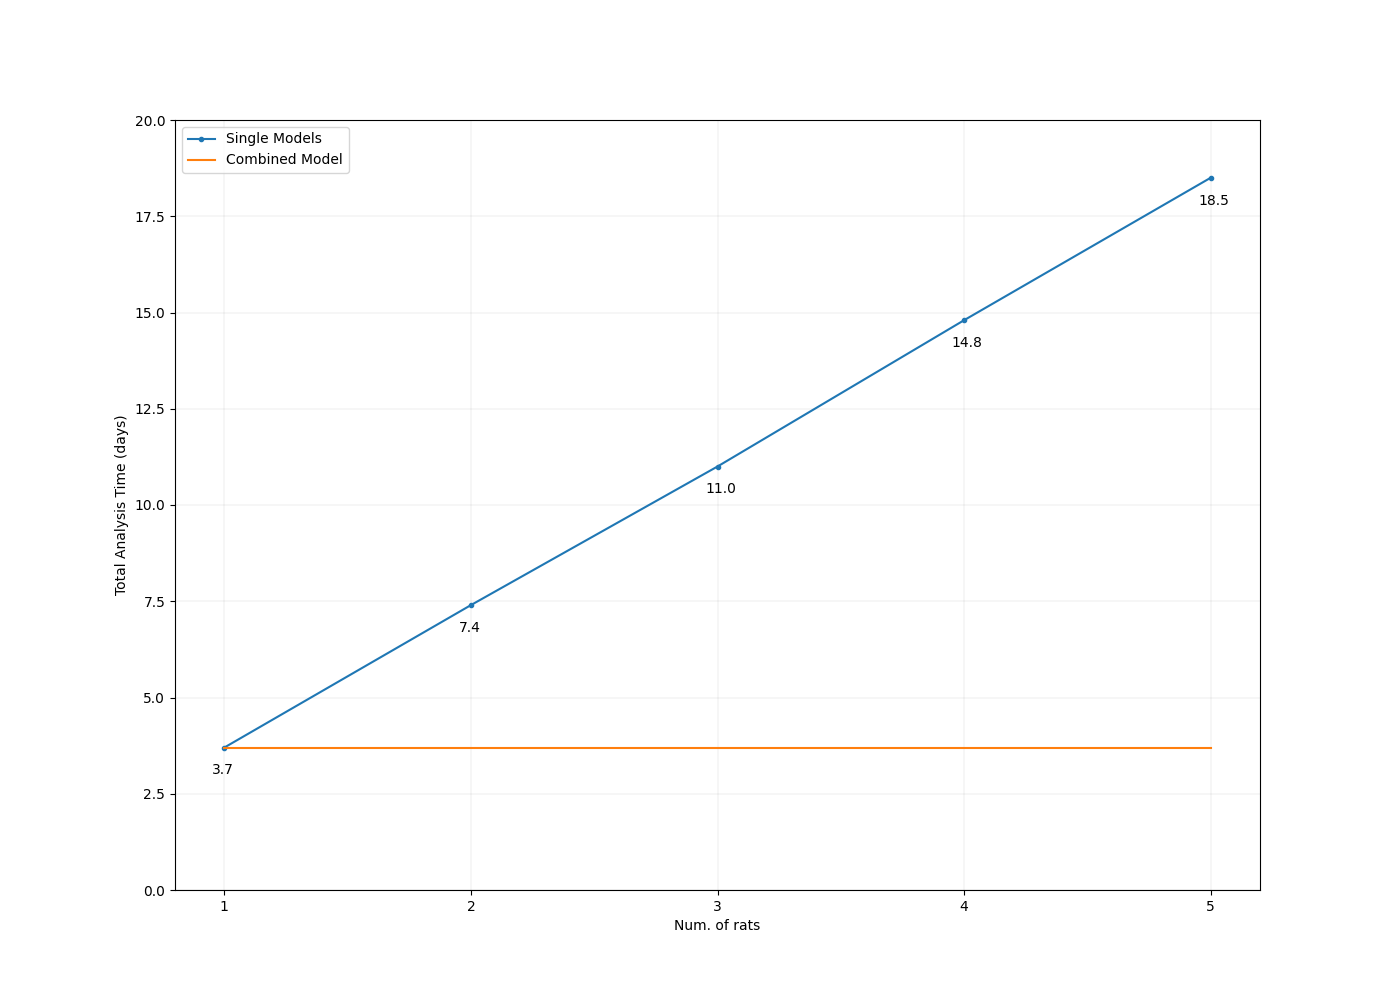
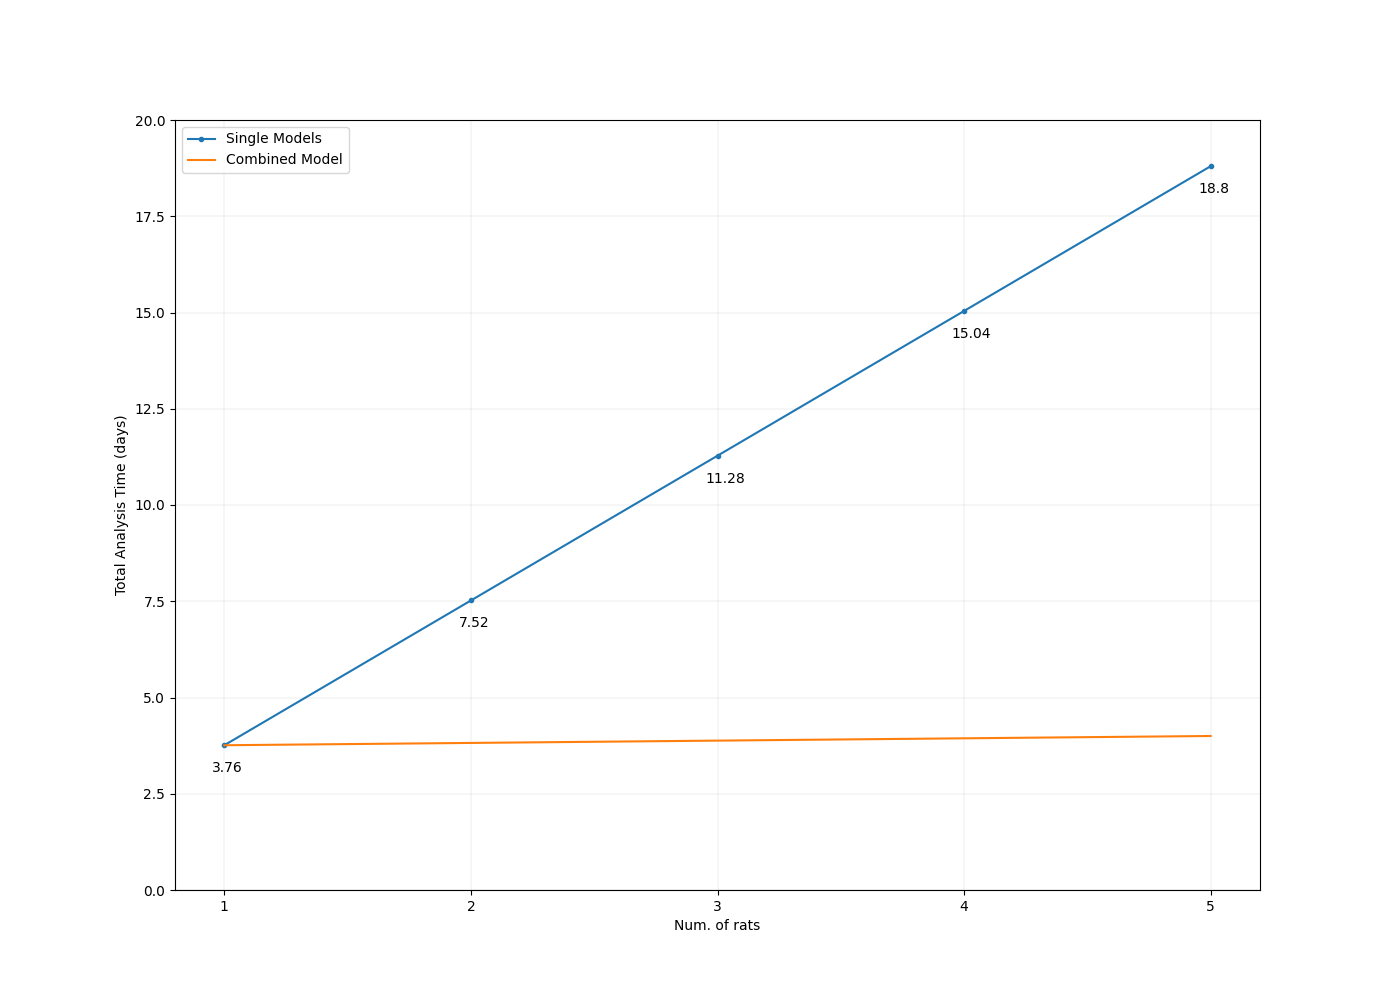
DLC update

diff --git a/DeepLabCut/DLC_jump_analysis/all_trackers/time_performance.py b/DeepLabCut/DLC_jump_analysis/all_trackers/time_performance.py
@@ -30,6 +30,7 @@ def time_per(fname1, fname2, fname3):
            )
 
     plt.grid(color='grey', linestyle='-', linewidth=.1, axis='y')
+
     #plt.title("Model Time (12 training videos)")
     plt.xlabel("Steps")
     plt.ylabel("time (days)")
@@ -38,44 +39,52 @@ def time_per(fname1, fname2, fname3):
     os.chdir(current_dir + '/saved_figs')
 
     figure = plt.gcf()
-    figure.set_size_inches(14, 10)
+    figure.set_size_inches(6, 6)
+    plt.ylim(0,4.5)
     plt.savefig(fname1, dpi=100)
     #plt.show()
     plt.close()
 
     #Second graph: Time to build 5 models corresponding to 5 animals 
-    total_time_one_animal = one_animal_model[5]
-    analysis_time = one_animal_model[4]
-    two_animal_models = np.multiply(total_time_one_animal, 2)
-    three_animal_models = np.multiply(total_time_one_animal, 3)
-    three_animal_models_rounded = np.round(three_animal_models)
-    four_animal_models = np.multiply(total_time_one_animal, 4)
-    five_animal_models = np.multiply(total_time_one_animal, 5)
+    total_time_one_animal = np.round((one_animal_model[5] + .06), 2) 
 
-    analysis_arr = []
-    for x in range(1,6):
-        analysis_arr.append(analysis_time)
+    analysis_time = np.round(total_time_one_animal, 2)
+    analysis_time_2 = np.round((total_time_one_animal + one_animal_model[4]), 2)
+    analysis_time_3 = np.round((analysis_time_2 + one_animal_model[4]), 2)
+    analysis_time_4 = np.round((analysis_time_3 + one_animal_model[4]), 2)
+    analysis_time_5 = np.round((analysis_time_4 + one_animal_model[4]), 2)
+    two_animal_models = np.round((total_time_one_animal*2), 2)
+    three_animal_models = np.round((total_time_one_animal*3), 2)
+    four_animal_models = np.round((total_time_one_animal*4), 2)
+    five_animal_models = np.round((total_time_one_animal*5), 2)
 
-    new_arr = []
-    nn_arr = []
-    for i in analysis_arr:
-        for j in range(1,6):
-                b = i*j
-            nn_arr.append(b)
-        # new_arr.append(i*b)
-        # for j in range(1,6):
-        #     new_arr.append(i*j)
+    # analysis_arr = []
+    # for x in range(1,6):
+    #     analysis_arr.append(analysis_time)
 
-    print(nn_arr)
+    # new_arr = []
+    # nn_arr = [1,2,3,4,5]
 
-    y = total_time_one_animal, two_animal_models, three_animal_models_rounded, four_animal_models, five_animal_models
+    # for i in analysis_arr:
+    #     x = np.arange(1,6)
+    #     new_arr.append(i*x[i])
+
+    #     # for j in range(1,6):
+    #     #     new_arr.append(i*j)
+
+    # print(new_arr)
+
+    y = total_time_one_animal, two_animal_models, three_animal_models, four_animal_models, five_animal_models
 
 
     y2 = [total_time_one_animal, total_time_one_animal, total_time_one_animal, total_time_one_animal, total_time_one_animal]
+    new_y = [analysis_time, analysis_time_2, analysis_time_3, analysis_time_4, analysis_time_5]
+    print(new_y)
+    print(y)
 
     x2 = [1, 2, 3, 4, 5]
     plt.plot(x2, y, marker='.')
-    plt.plot(x2,y2)
+    plt.plot(x2,new_y)
     plt.legend(['Single Models', 'Combined Model'], loc='upper left')
     plt.xticks(np.arange(min(x2), max(x2)+1, 1.0), ['1', '2', '3', '4', '5'])
     
@@ -97,42 +106,42 @@ def time_per(fname1, fname2, fname3):
 
 ########################
     y3 = np.random.uniform(low=10, high=15, size=(20))
+    print(y3[9])
+    print(y3[12])
     y3[10] = 100
     y3[11] = 100
     y4 = [0,0,0,0]
     x3 = np.arange(1,21)
-    x3[10]
-    xx = [10]
+    #x3[10]
     np.random.seed(0)
     y5 = np.random.uniform(low=10, high=15, size=(20))
     y3[0] = y5[0]
-    print(y5)
-    new_y = [87]
 
     plt.plot(x3, y3, marker='.', linewidth=2.5) #--> jumpy/blue
     plt.plot(x3, y5, marker='.', linewidth=3)
-    plt.plot(new_y, linestyle='dashed')
     plt.legend(['Jumpy', 'Correct'])
     #plt.xticks(np.arange(min(x3), max(x3)+1, 1.0), ['1', '2', '3', '4'])
     
 
+    plt.axhline(y=87, color='r', linestyle='--')
     plt.grid(color='grey', linestyle='-', linewidth=.1)
     plt.ylim(0,120)
     #plt.xlabel("")
     
-    # plt.tick_params(
-    # axis='x',          # changes apply to the x-axis
-    # which='both',      # both major and minor ticks are affected
-    # bottom=False,      # ticks along the bottom edge are off
-    # top=False,         # ticks along the top edge are off
-    # labelbottom=False)
+    plt.tick_params(
+    axis='x',          # changes apply to the x-axis
+    which='both',      # both major and minor ticks are affected
+    bottom=False,      # ticks along the bottom edge are off
+    top=False,         # ticks along the top edge are off
+    labelbottom=False)
 
 
     plt.ylabel("Abs coordinate diff. between frames (pixels)")
+    plt.xlabel("Frame difference: n - (n-1)")
     figure = plt.gcf()
     figure.set_size_inches(10,6)
     plt.savefig(fname3, dpi=100)
-    #plt.show()
+    plt.show()
     plt.close()
 
 time_per("time_steps.png", "time_multiple_models.png", "frame_difference.png")
